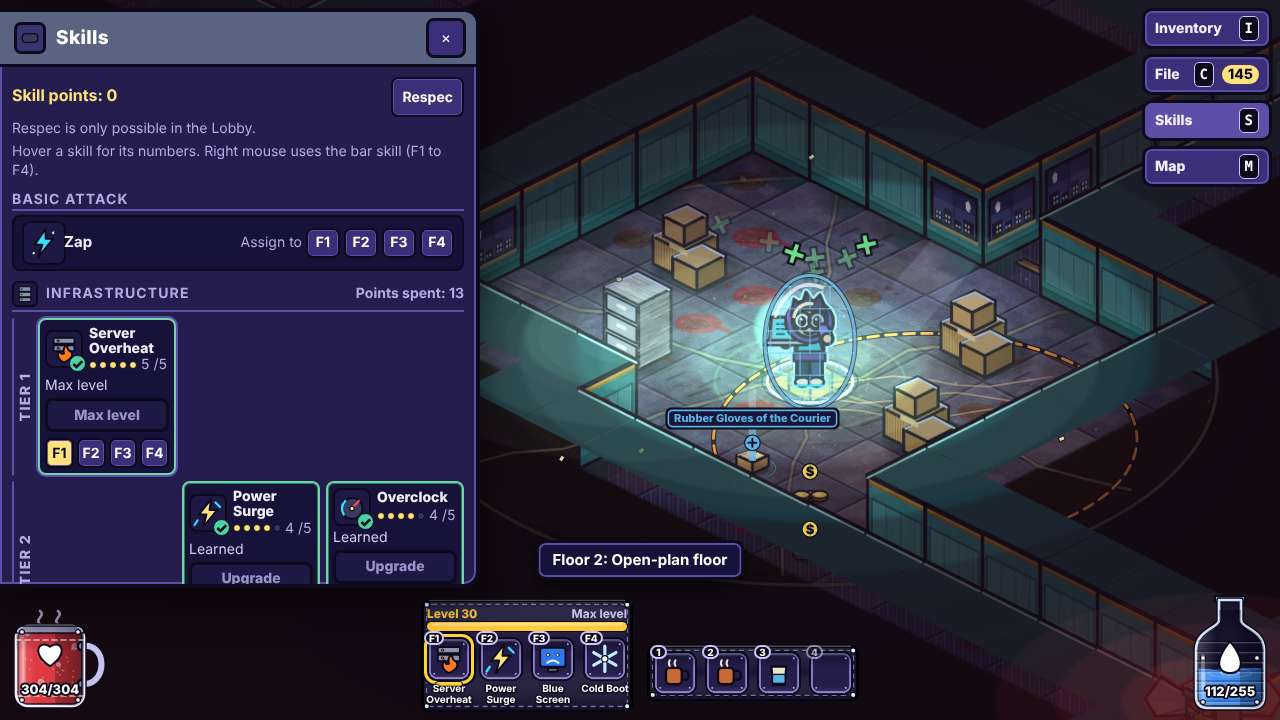
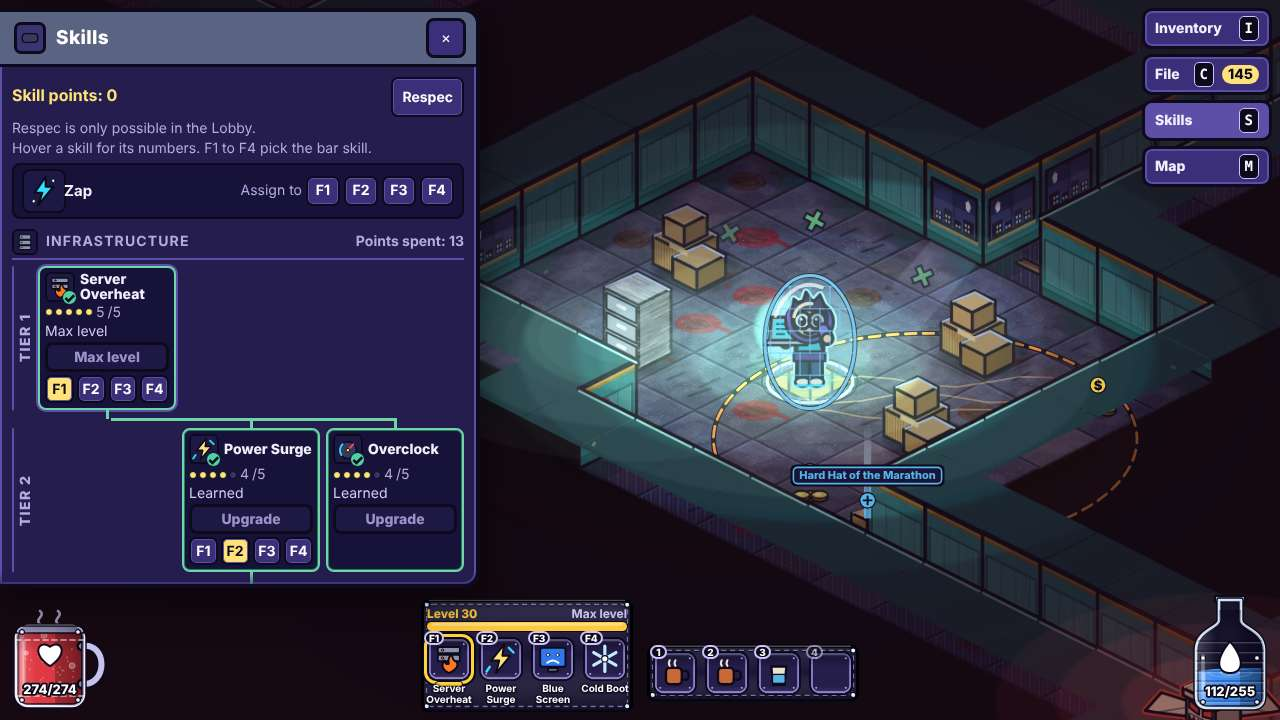
office-crawler: seventh briefing (gear-driven hero visuals R8-0, e2e test+polish round R8-T)
Claude-Session: https://claude.ai/code/session_015ZMPDA2f9SmuN7Nc91jqdv

diff --git a/src/core/content/skilltrees/facilities.js b/src/core/content/skilltrees/facilities.js
@@ -16,9 +16,9 @@ export const facilities = {
       effects: [{ op: "damage", type: "physical", min: [6, 2], max: [10, 3], weaponShare: 0.5 }, { op: "status", kind: "stun", ticks: [20, 4] }],
       fx: { cast: "fx:slam", hit: "fx:dust", icon: "pallet-slam" } },
     { id: "floor-buffer", class: C, branch: "maintenance", tier: 2, col: 1, name: "Floor Buffer Sweep", textKey: "skillFloorBufferText", kind: "active", archetype: "area",
-      maxLevel: 5, reqLevel: 8, requires: [{ id: "pallet-slam", level: 1 }], tags: ["physical", "area", "heavy"], cost: { mana: [10, 2], cooldown: 0, reservePct: 0 },
+      maxLevel: 5, reqLevel: 8, requires: [{ id: "pallet-slam", level: 1 }], tags: ["physical", "area", "heavy"], cost: { mana: [8, 2], cooldown: 0, reservePct: 0 },
       delivery: { shape: "ring", radius: [3.2, 0.3, 5], at: "self", los: true },
-      effects: [{ op: "damage", type: "physical", min: [8, 2], max: [14, 3], weaponShare: 0.5 }, { op: "knockback", tiles: 1 }],
+      effects: [{ op: "damage", type: "physical", min: [10, 3], max: [16, 4], weaponShare: 0.5 }, { op: "knockback", tiles: 1 }],
       fx: { cast: "fx:ring", hit: "fx:dust", icon: "floor-buffer" } },
     { id: "demolition-day", class: C, branch: "maintenance", tier: 3, col: 1, name: "Demolition Day", textKey: "skillDemolitionText", kind: "active", archetype: "area",
       maxLevel: 1, reqLevel: 16, requires: [{ id: "floor-buffer", level: 1 }], tags: ["physical", "area", "heavy"], cost: { mana: [22, 0], cooldown: 0, reservePct: 0 },

diff --git a/src/core/content/skilltrees/sales.js b/src/core/content/skilltrees/sales.js
@@ -20,7 +20,7 @@ export const sales = {
     { id: "pen-volley", class: C, branch: "pitch", tier: 2, col: 0, name: "Pen Volley", textKey: "skillPenVolleyText", kind: "active", archetype: "projectile",
       maxLevel: 5, reqLevel: 8, requires: [{ id: "stapler-throw", level: 1 }], tags: ["physical", "projectile"], cost: { mana: [6, 1], cooldown: 0, reservePct: 0 },
       delivery: { kind: "pen", speed: 0.4, range: 10, count: [3, 0.5, 5], spreadDeg: 30, pierce: 0, chain: 0 },
-      effects: [{ op: "damage", type: "physical", min: [2, 1], max: [4, 1], weaponShare: 0.25 }],
+      effects: [{ op: "damage", type: "physical", min: [3, 2], max: [6, 2], weaponShare: 0.25 }],
       fx: { cast: "fx:paper", hit: null, icon: "pen-volley" } },
     { id: "card-fan", class: C, branch: "pitch", tier: 3, col: 0, name: "Business Card Fan", textKey: "skillCardFanText", kind: "active", archetype: "projectile",
       maxLevel: 1, reqLevel: 16, requires: [{ id: "pen-volley", level: 1 }], tags: ["physical", "projectile"], cost: { mana: [16, 0], cooldown: 0, reservePct: 0 },

diff --git a/src/core/config.js b/src/core/config.js
@@ -127,7 +127,7 @@ export const config = {
   tierFactor: { normal: 1, champion: 3, boss: 10 },
 
   // Depth scaling of monster stats, percent per depth beyond the first (depth 1 = registry values).
-  scaling: { hpPct: 80, damagePct: 14, defensePct: 16, attackRatingPct: 12, xpPct: 20 },
+  scaling: { hpPct: 88, damagePct: 17, defensePct: 16, attackRatingPct: 12, xpPct: 20 },
   // Floor population budget (AC-R-034-3): sum of cost * tierFactor stays within it.
   budgetBase: 120, budgetPerDepth: 32,
   population: { packsWanted: [12, 16], maxPacks: 50, tries: 400, stopAtBudget: 0.6 }, // how many packs a floor tries to place before it stops

diff --git a/docs/reviews/R6-world-progress.md b/docs/reviews/R6-world-progress.md
@@ -1,0 +1,8 @@
+# WORLD-R6 progress (round 6, render part of R6-2)
+
+- done: N2 root cause: the skill effect lifetime is wall-clock render time (effects.js `now - born >= life`, `now` = performance.now() at the event and at the frame), not ticks and not reset by any event. On a running clock (`?realtime=1`, canvas sampled every 60-200 ms) the slam is on screen at 77, 121, 168, 351, 497, 664 ms and a faint ring at 858 ms (docs/shots/r6w-n2-slam-running.jpg). In the manual test clock time does not stop between steps, so a capture whose screenshots are >900 ms apart finds it gone (docs/shots/r6w-n2-slam-manual.jpg: gone at +913 ms real time). No code change needed; regression test added (render-r6 "N2"). next: N1.
+- done: N1: every human monster and NPC now draws a face in every facing (walking away it glares back over the shoulder, face turned to the facing side; only the headset hero keeps a back of the head). Consultant skin/shirt/suit/tie/rim and Middle Manager skin/shirt one step darker. Root cause of the washed look was different: actors standing beside a wall or tall prop (`ghost`) were excluded from the pool-light restore (world.js `restoreActors`), so cool pools bleached them white; they are now restored (85 % of the usual share), and an actor faded because it stands in front of the hero is not restored (the hero stays readable). next: N3.
+- done: N3: loot beams are ground effects drawn in the screen-space pass above the hero; when a beam overlaps the hero rectangle, fx.drawLoot calls `fx.heroRedraw` (world.js `redrawHero`, sprite + pool tint + hurt wash) right after the beam pass, so the hero stands in front of the beam. No cost when no beam crosses him. next: N4.
+- done: N4: new `fx.onHead` keep-out (head rect, 15 z half width, 26 z tall, 4 px padding), checked in every plateFree pass, so the relaxed pass for rare, unique and hovered drops may still cover a body but never a head. next: G2 #8.
+- done: G2 #8: placement is already correct in core (loot.js freeGroundTile: +1000 penalty on the 1-tile halo of plant, rack, cabinet, ...). Sweep over floors 1/2/3/5/7/9 x 12 seeds, 6 drops per plant at the adjacent tile (2424 drops): 0 drops in a halo while a free tile outside it existed within dropRadius; 73 drops (3 %) landed in a halo because every other tile in the radius was taken or a wall (cramped corners). Test `render-r6 G2 #8` keeps this proven (3 depths x 6 seeds). Nothing to fix in render; core owns the remaining 3 % (BAL-R6 could widen dropRadius when the halo is the only choice, not needed for the gate). next: perf.
+- done: perf: the atlas drew all 8 monster types (about 1100 sprites with a 12-stamp rim bake each) and the S1 hero up front, plus their deferred raster time. They are now `addLazy` (drawn on first use, like heroes and bosses; world.js fills the frame tables on first use, `monFrame`); lazy draws re-apply the atlas's ink weight and texture resolution (`lazyDraw`) so a later rebuild cannot change them. Atlas build 4.4-5.1 s -> 0.45-0.6 s (load average 8-11, shared machine). Pixel proof: frozen frame (performance.now and rAF pinned) of four scenes with the eager and the lazy build: 0 differing pixels in all four. fps50 under the same load: before 35.6-39.1, after 36.4-36.9 (render avg 3.5 -> 4.0 ms, inside the noise of this load); the orchestrator's quiet run is the gate. next: verification.

diff --git a/docs/SESSION-NOTES.md b/docs/SESSION-NOTES.md
@@ -1,7 +1,7 @@
 # >>> RESUME HERE (orchestrator, read first after any context loss) <<<
 _Last updated 2026-10-14T08:31:30Z. Keep this block current after every step; the log below is history._
 
-**Where we are:** R4, R5, G accepted (proxy); retro R5+G done (L-025..L-030, round-05.json, round-G.json). **R6 in flight** (contract + ownership `docs/reviews/R6-contract.md`): BAL-R6 class balance + caster scaling + golden re-record (`R6-balance-progress.md`), UI-R6 N5/N6/N7, tree connectors, select polish, respec confirm (`R6-ui-progress.md`), WORLD-R6 N1-N4, slam lifetime, atlas ≤ 4300 ms (`R6-world-progress.md`). After: forward BAL e2e_red to UI owner, orchestrator full suite + quiet bench, ADV-R6 + code review in parallel (L-030), visual review, proxy acceptance, retro R6. Then R7-8 flawless gameplay; **R7 starts with R7-0 quest journal + next steps (sixth briefing, 00-brief.md)**.
+**Where we are:** R4, R5, G accepted (proxy); retro R5+G done (L-025..L-030, round-05.json, round-G.json). **R6 in flight** (contract + ownership `docs/reviews/R6-contract.md`): BAL-R6 class balance + caster scaling + golden re-record (`R6-balance-progress.md`), UI-R6 N5/N6/N7, tree connectors, select polish, respec confirm (`R6-ui-progress.md`), WORLD-R6 N1-N4, slam lifetime, atlas ≤ 4300 ms (`R6-world-progress.md`). After: forward BAL e2e_red to UI owner, orchestrator full suite + quiet bench, ADV-R6 + code review in parallel (L-030), visual review, proxy acceptance, retro R6. Then R7-8 flawless gameplay; **R7 starts with R7-0 quest journal + next steps (sixth briefing); R8 starts with R8-0 hero visuals follow equipped gear; then R8-T e2e test + polish round (seventh briefing); then R9-10 lighting, R11-12 overall test & polish.**
 
 **In flight (check the files, not memory):**
 - ADV-R5 adversarial test-engineer (see above). UI-R5 open items for review/decision: stale tab-owner lock (no timeout,
@@ -179,3 +179,4 @@ Each round also improves the harness (learnings → agent definitions/rules), as
 - [retro R5/G] HURT: the G2 reviewer pressed Digit1 instead of F1 and reported no skill VFX (L-025); the fix contract promised `deepest: 0 = Lobby` which the core could not deliver (L-026); e2e reds across package boundaries again (L-022 reopened); bench noise with three parallel implementers hid a real decline, fps50 47.1 -> 43.9, atlas 4776 of 5000 ms (L-020 reopened); the file:// storage race leaves a delivery-mode risk (L-027).
 - [retro R5/G] HARNESS CHANGED (unreleased patch, CHANGELOG): visual-reviewer.md input map section, test-engineer.md flaky-check rule, implementer.md bench/contract lines, 7 playbook rows; learnings L-025..L-030 new, L-020 and L-022 reopened, L-021 and L-024 verified. Proposed for the post-mortem: per-package perf budget and gate, contract template with feasibility and tests-affected columns, AC-to-package matrix (L-019).
 - 2026-10-14T08:48:47Z Sixth briefing (quest journal with next steps) recorded verbatim; scheduled as R7-0 in 50-plan.md.
+- 2026-10-14T08:52:07Z Seventh briefing (gear-driven hero visuals; then an e2e test + polish round) recorded; R8-0 and R8-T added to 50-plan.md. Risk: atlas budget.

diff --git a/docs/product/50-plan.md b/docs/product/50-plan.md
@@ -370,3 +370,22 @@ R4-4 -> R6-1 ; R5 -> R6-2
   (count decided in the R7 circle). Quest state is part of the save (schema bump with migration).
 - **Order:** circle (facilitator → proxy or customer) → spec ACs → CORE (quest state machine, events, save) → UI (journal,
   HUD hint, NPC dialogue) and WORLD (quest markers if specified) in parallel → adversarial + review → visual → acceptance.
+
+## Round R8: added item from the seventh briefing (2026-10-14)
+
+### R8-0 Hero visuals follow equipped gear (customer request, first item of R8)
+- **Goal:** the hero's figure shows what is equipped in the visible slots (head, body, hands, feet, weapon, off-hand), for all
+  three classes, all facings and animations, in game, on the character sheet and on the character select and slot busts.
+  Rarity reads through colour or trim (Okabe-Ito palette); uniques get a distinct accent.
+- **Approach (architect decides in an ADR before work):** layered vector parts drawn per item *base category* (not per item),
+  composited at runtime or cached per equipment combination. **Risk:** the sprite atlas build is already 4.78 s of a 5 s
+  budget (ADR-0004); pre-baking every combination is not affordable, so the ADR must include an atlas/cache budget.
+- **Order:** architect ADR + data contract (which item field picks the visual) → WORLD (parts, compositing, cache) with
+  CORE only if a field is missing → UI (sheet/select/busts) → visual review with 1x crops per slot and class → adversarial
+  (every slot × class × facing renders without errors, perf with 50 monsters) → acceptance.
+
+## Round R8-T: end-to-end testing and polish (seventh briefing, after R8, before the lighting rounds R9–R10)
+- **Goal:** a full end-to-end pass over everything built so far: no-cheat full runs per class to the boss in a real browser,
+  save/load across all features (quests, gear visuals, slots), keyboard-only and phone layouts, offline/file:// smoke
+  (incl. write-then-immediate-reload), size, legal and denylist scans, then one polish fix round from the findings.
+- **Agents:** test-engineer (adversarial, new e2e journeys), reviewer, visual-reviewer, customer-proxy acceptance, retro.

diff --git a/docs/product/00-brief.md b/docs/product/00-brief.md
@@ -89,3 +89,14 @@ that lists the active quests and, for each, the concrete next step. Today the ga
 "find out why the floors went dark" memo, ending at the boss) and no journal, so this also means turning that goal into
 explicit quest steps, and, close to the original's mechanics, adding a few NPC side quests. How many side quests is open
 (round 7 circle; the proxy answers unless the customer does).
+
+## Seventh briefing (user, 2026-10-14, verbatim)
+
+> and for the round after that please make sure the characters change their visuals based on the invetrory - do a round of
+> e2e testing and polishing afterwards
+
+**Status: agreed (real customer).** Scheduled as **R8-0** (first item of round 8, the round after the quest-journal round 7)
+and a new round **R8-T** (end-to-end testing and polish) right after round 8, before the lighting rounds 9–10. Interpretation
+by the orchestrator: the hero's look changes with the **equipped** gear (head, body, hands, feet, weapon, off-hand are
+visible slots; rings, amulet and belt are not), as in the original. Today the hero sprite ignores equipment (checked in
+`src/render`). Inventory items that are carried but not worn don't change the look.
